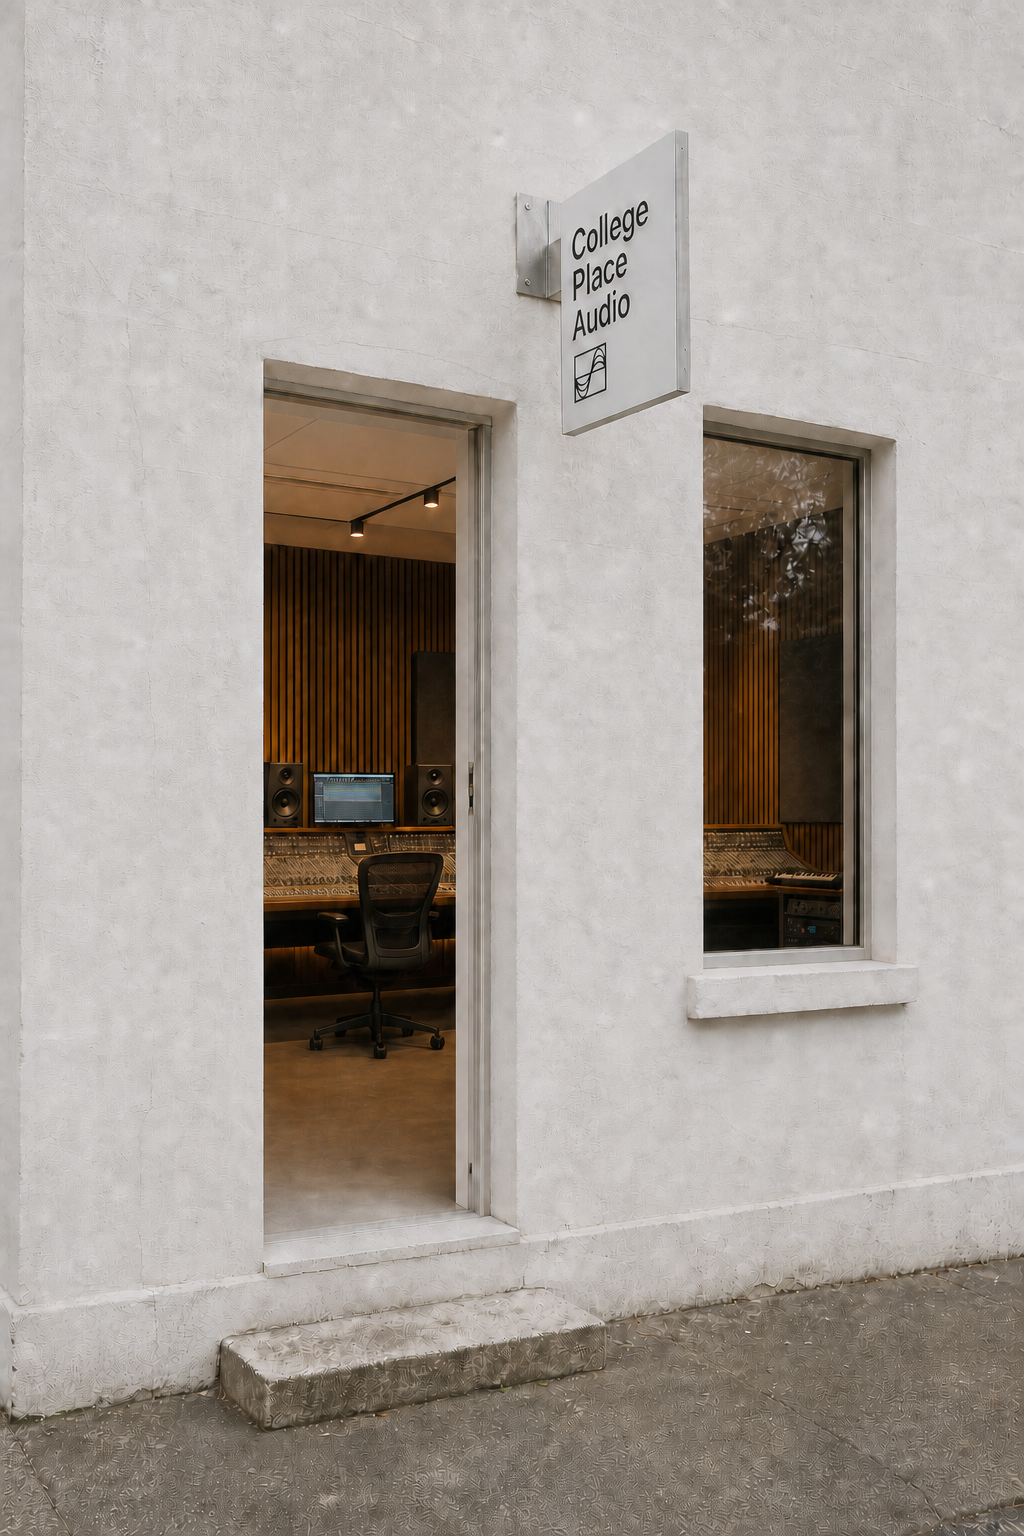
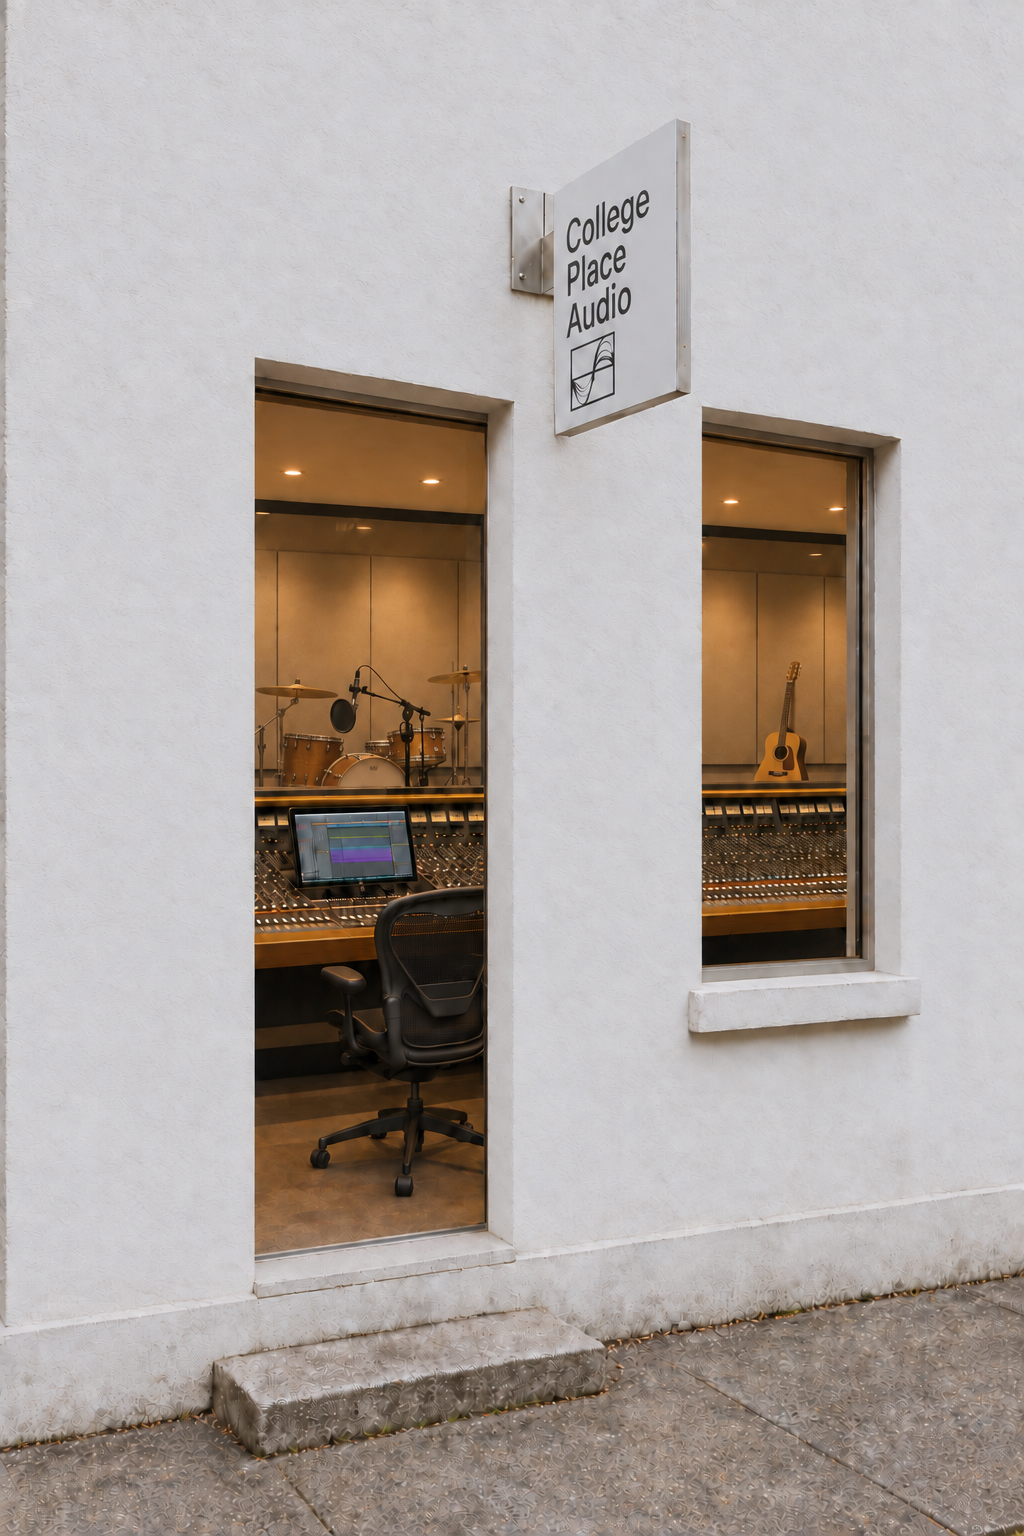
Refresh homepage photo and add film and television placements

diff --git a/index.html b/index.html
@@ -175,6 +175,81 @@
             </a>
           </div>
         </article>
+        <article class="work-card">
+          <figure class="work-card__media">
+            <img
+              src="assets/christmas-in-wolf-creek.jpg"
+              alt="Christmas in Wolf Creek promotional artwork"
+              loading="lazy"
+            />
+          </figure>
+          <div class="work-card__body">
+            <p class="work-card__type">Film · Holiday romance</p>
+            <h3>Christmas in Wolf Creek</h3>
+            <p class="work-card__summary">
+              When a reindeer disappears before the town's Christmas play,
+              Sam and Austin team up to rescue the holiday celebration
+              while finding their way back to each other.
+            </p>
+            <dl class="work-card__credits">
+              <div>
+                <dt>Production</dt>
+                <dd>Brain Power Studio / INSP Films</dd>
+              </div>
+              <div>
+                <dt>Featured music</dt>
+                <dd>College Place Audio</dd>
+              </div>
+            </dl>
+            <a
+              class="work-card__link"
+              href="https://clients.imagicommentertainment.com/?p=2062"
+              target="_blank"
+              rel="noreferrer"
+            >
+              <span>Project source</span>
+              <span>Imagicomm Entertainment ↗</span>
+            </a>
+          </div>
+        </article>
+
+        <article class="work-card">
+          <figure class="work-card__media">
+            <img
+              src="assets/vice-hbo.jpg"
+              alt="VICE documentary series promotional artwork with HBO logo"
+              loading="lazy"
+            />
+          </figure>
+          <div class="work-card__body">
+            <p class="work-card__type">Television · Documentary series</p>
+            <h3>VICE</h3>
+            <p class="work-card__summary">
+              The HBO documentary series follows VICE correspondents around
+              the world, exploring underreported stories and the people
+              at the heart of global events.
+            </p>
+            <dl class="work-card__credits">
+              <div>
+                <dt>Production</dt>
+                <dd>VICE / HBO</dd>
+              </div>
+              <div>
+                <dt>Featured music</dt>
+                <dd>College Place Audio</dd>
+              </div>
+            </dl>
+            <a
+              class="work-card__link"
+              href="https://www.hbomaxlapress.com/programming/series/216"
+              target="_blank"
+              rel="noreferrer"
+            >
+              <span>Project source</span>
+              <span>HBO ↗</span>
+            </a>
+          </div>
+        </article>
       </div>
     </section>
 

diff --git a/styles.css b/styles.css
@@ -347,6 +347,10 @@ textarea {
   object-position: center 42%;
 }
 
+.work-card__media img[src$="vice-hbo.jpg"] {
+  object-fit: contain;
+}
+
 .work-card__body {
   display: flex;
   flex: 1;
